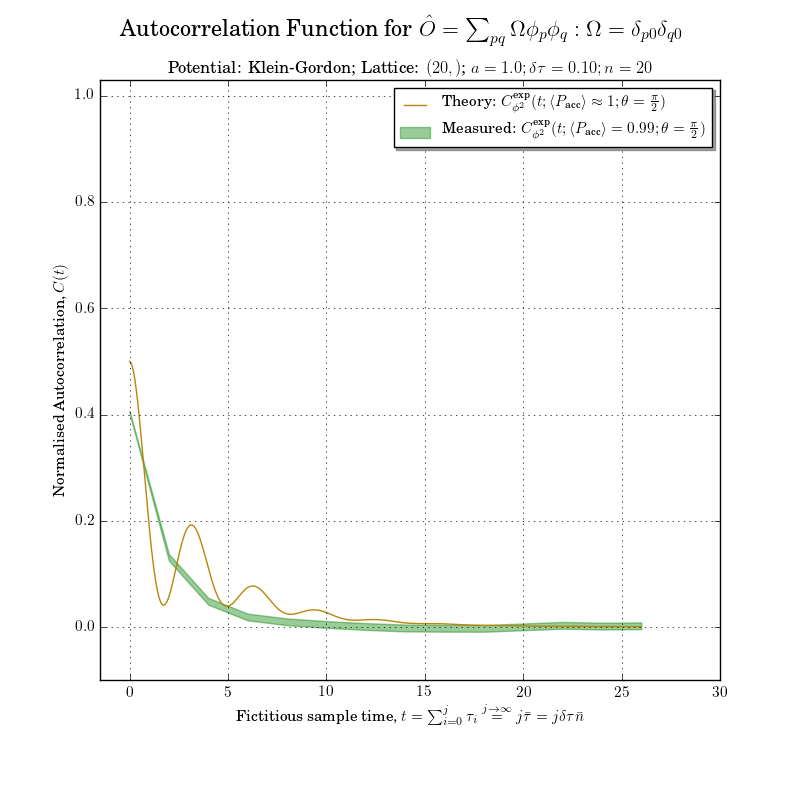
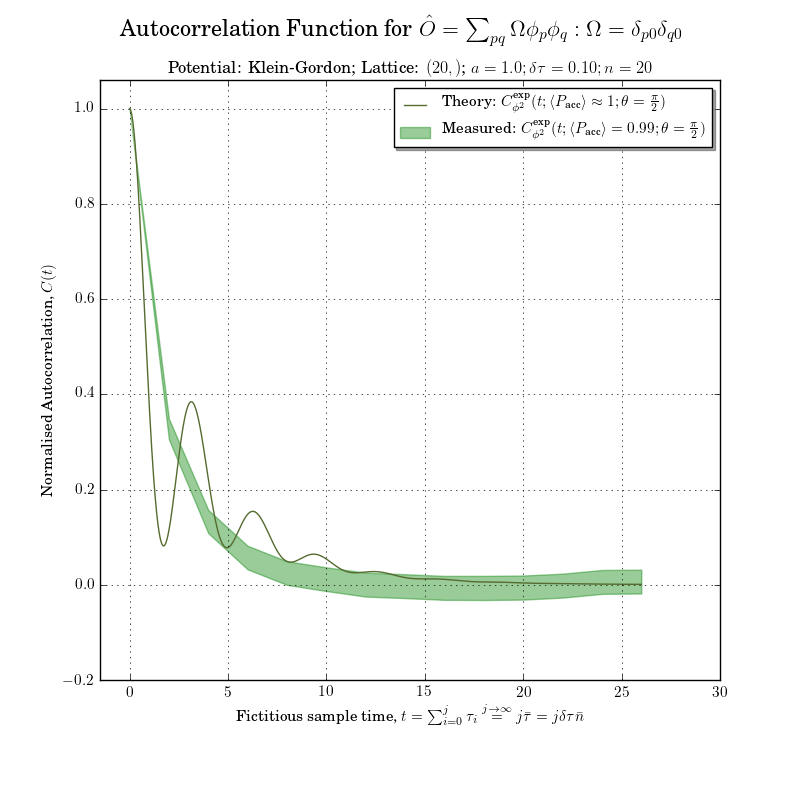
issue:#43 - theory looks good for KHMC at pi/2 but looks measured data looks wrong for HMC
Former-commit-id: 9160114363d51393bb21c8305f1c50f8c956736b

diff --git a/results/common/acorr.py b/results/common/acorr.py
@@ -50,7 +50,7 @@ def plot(acns, lines, subtitle, op_name, save):
         c = next(colour)
         # for some reason I occisionally need to add a fake plot
         # p2 = ax[0].add_patch(Rectangle((0, 0), 0, 0, fc=c, linewidth=0, alpha=.4, label=label))
-        ax[0].fill_between(x, y-e, y+e, color=c, alpha=0.4, label=label)
+        ax[0].fill_between(x, y-e, y+e, color=c, alpha=0.3, label=label)
         # ax[0].errorbar(x, y, yerr=e, c=c, ecolor='k', ms=3, fmt='o', alpha=0.5,
         #     label=label)
     
@@ -125,11 +125,15 @@ def main(x0, pot, file_name,
         p = c.model.p_acc
         xx = c.op_mean
         
-        m = M2_Exp(tau = (step_size*n_steps), m = 1, pa = 1)
-        f = m.eval
-        print 'Finished Running Model: {}'.format(file_name)
-        return xx, acs, acns_err, p, f, w
-    
+        if a == .5*np.pi:
+            m = M2_Exp(tau = (step_size*n_steps), m = 1, pa = 1)
+            fx = np.linspace(0, separations[:2*w][-1]*step_size*n_steps, separations[:2*w].size*100+1, True)
+            f = m.eval(fx)
+            f /= f[0]
+        else:
+            f = fx = None
+        return xx, acns, acns_err, p, fx, f, w
+    print 'Finished Running Model: {}'.format(file_name)
     # use multiprocessing
     out = lambda p,x,a: '> measured at angle:{:3.1f}: <x(0)x(0)> = {}; <P_acc> = {:4.2f}'.format(a,x,p)
     al = len(mixing_angles)
@@ -139,18 +143,16 @@ def main(x0, pot, file_name,
     else:
         ans = prll_map(coreFunc, zip(range(al), mixing_angles), verbose=False)
     
-    xx, acns, acns_err, ps, fs, ws = zip(*ans) # unpack from multiprocessing
+    xx, acns, acns_err, ps, fxs, fs, ws = zip(*ans) # unpack from multiprocessing
     
     print '\n'*al # hack to avoid overlapping!
     for p, x, a in zip(ps, xx, mixing_angles):
         print out(p,x,a)
     
     # create dictionary for plotting
-    max_len = min(2*np.max(ws), separations.size)
     x = separations*step_size*n_steps
-    fx = np.linspace(0, separations[:max_len][-1]*step_size*n_steps, separations[:max_len].size*100+1, True)
-    acns = {r'Measured: $C^{\text{exp}}_{\phi^2}(t; \langle P_{\text{acc}}\rangle'+r'={:4.2f}; '.format(p)+r'\theta = {})$'.format(l):(x[:max_len], y[:max_len], e[:max_len]) for y,e,l,p in zip(acns, acns_err, angle_labels, ps)}
-    lines = {r'Theory: $C^{\text{exp}}_{\phi^2}(t; \langle P_{\text{acc}}\rangle \approx 1; '+r'\theta = {})$'.format(l):(fx, f(fx)) for f,l in zip(fs, angle_labels)}
+    acns = {r'Measured: $C^{\text{exp}}_{\phi^2}(t; \langle P_{\text{acc}}\rangle'+r'={:4.2f}; '.format(p)+r'\theta = {})$'.format(l):(x[:2*w], y[:2*w], e[:2*w]) for y,e,l,p,w in zip(acns, acns_err, angle_labels, ps, ws)}
+    lines = {r'Theory: $C^{\text{exp}}_{\phi^2}(t; \langle P_{\text{acc}}\rangle \approx 1; '+r'\theta = {})$'.format(l):(fx, f) for fx,f,l in zip(fxs, fs, angle_labels) if f is not None}
     
     all_plot = {'acns':acns, 'lines':lines, 'subtitle':subtitle, 'op_name':op_name}
     store.store(all_plot, file_name, '_allPlot')

diff --git a/results/acorr_xx_khmc_kg.py b/results/acorr_xx_khmc_kg.py
@@ -12,10 +12,10 @@ n, dim = 20, 1
 x0 = np.random.random((n,)*dim)
 spacing = 1.
 
-n_samples, n_burn_in = 10000, 25
+n_samples, n_burn_in = 100000, 25
 step_size =   .1
 n_steps   =  1
-c_len     = 200
+c_len     = 500
 
 mixing_angles = 1/np.asarray([8, 6, 4, 3, 2], dtype='float64')*np.pi
 angle_labels = [
@@ -29,7 +29,7 @@ angle_labels = [
 
 separations = range(c_len)
 opFn = lambda samples: twoPoint(samples, separation=0)
-op_name = r'$\Omega = x(0)x(0)$'
+op_name = r'$\hat{O} = \sum_{pq} \Omega \phi_p\phi_q :\Omega = \delta_{p0}\delta{q0}$'
 
 if '__main__' == __name__:
     routine.main(x0, pot, file_name,

diff --git a/correlations/errors.py b/correlations/errors.py
@@ -261,7 +261,7 @@ def uWerr(f_ret, acorr=None, s_tau=1.5, fast_threshold=5000):
     f_ddiff = f_diff*np.sqrt((w + .5)/n)   # error on error of f   Eq. (42)
     
     # return relevant values - perhaps this is all better as a class?
-    return f_aav, f_diff, f_ddiff, itau, itau_diff, itau_aav[:l], acorr[:l]
+    return f_aav, f_diff, f_ddiff, itau, itau_diff, itau_aav[:l], acorrn[:l]
 
 if __name__ == '__main__':
     pass

diff --git a/results/acorr_reload.py b/results/acorr_reload.py
@@ -5,9 +5,13 @@ from common.acorr import plot
 from common.utils import saveOrDisplay
 
 save = True
-file_name = 'acorr_xx_hmc_kg'
+file_name = 'acorr_xx_khmc_kg'
 
 dest = 'results/data/other_objs/{}_allPlot.pkl'.format(file_name)
 a = load(dest)
+
+op_name = r'$\hat{O} = \sum_{pq} \Omega \phi_p\phi_q :\Omega = \delta_{p0}\delta{q0}$'
+
+a['op_name'] = op_name
 
 plot(save = saveOrDisplay(save, file_name), **a)

diff --git a/results/acorr_xx_hmc_kg.py b/results/acorr_xx_hmc_kg.py
@@ -12,10 +12,10 @@ n, dim = 20, 1
 x0 = np.random.random((n,)*dim)
 spacing = 1.
 
-n_samples, n_burn_in = 5000, 25
+n_samples, n_burn_in = 10000, 25
 step_size =  .1
 n_steps   =  20
-c_len     = 1000
+c_len     = 200
 
 mixing_angles = [.5*np.pi]
 angle_labels = [r'\frac{\pi}{2}']
